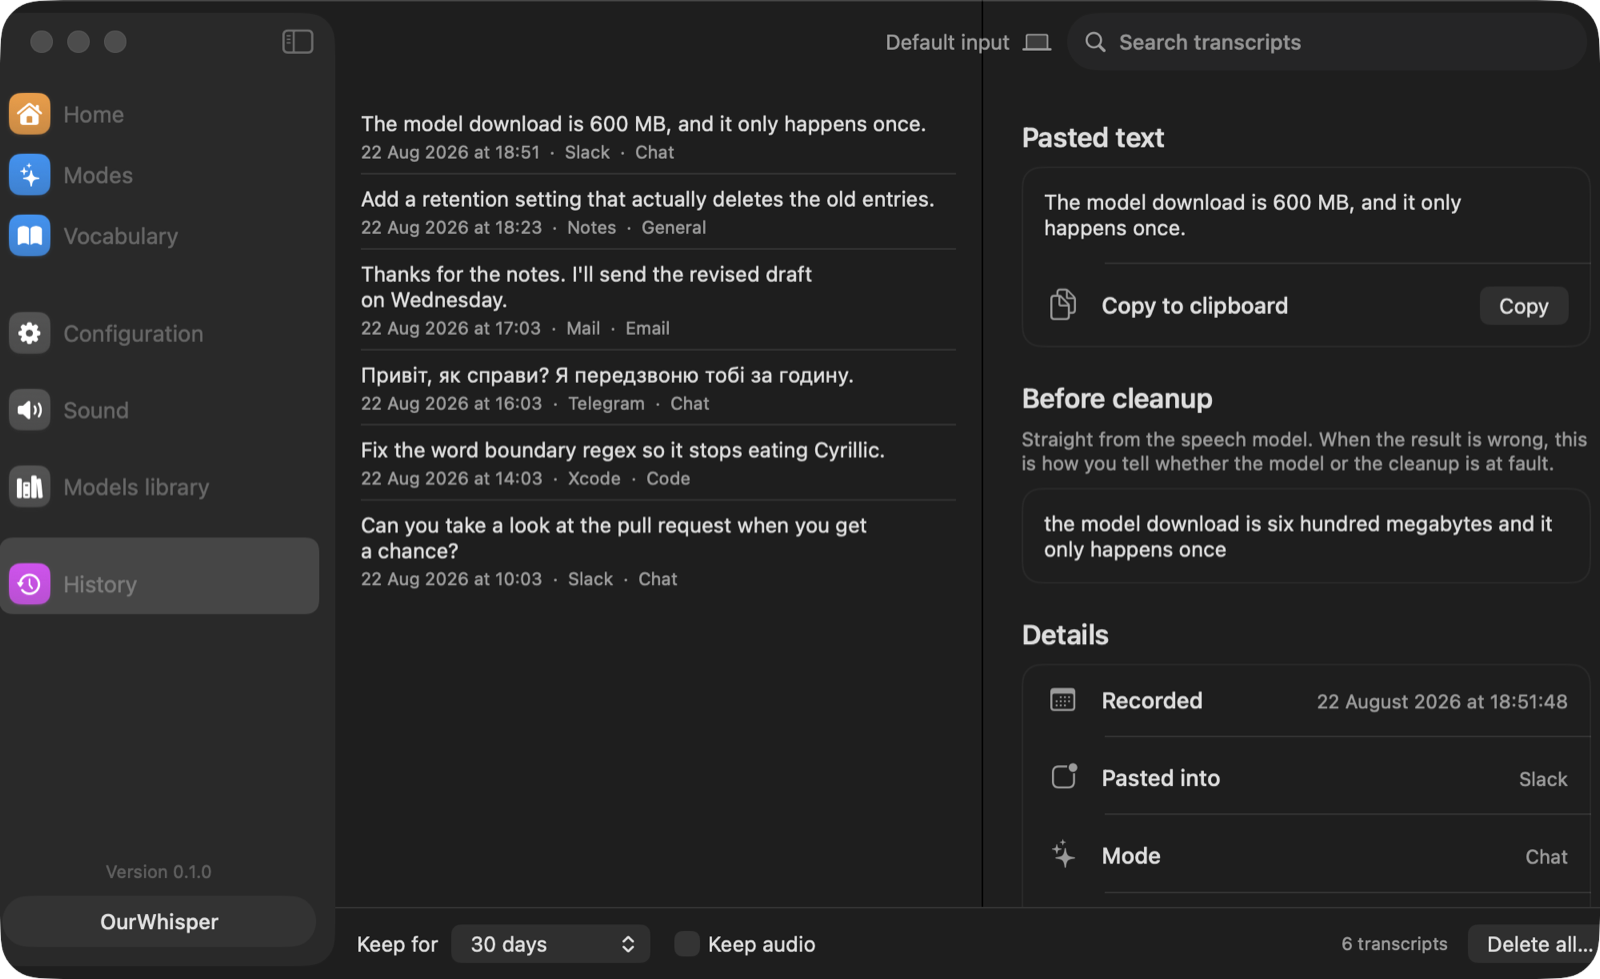
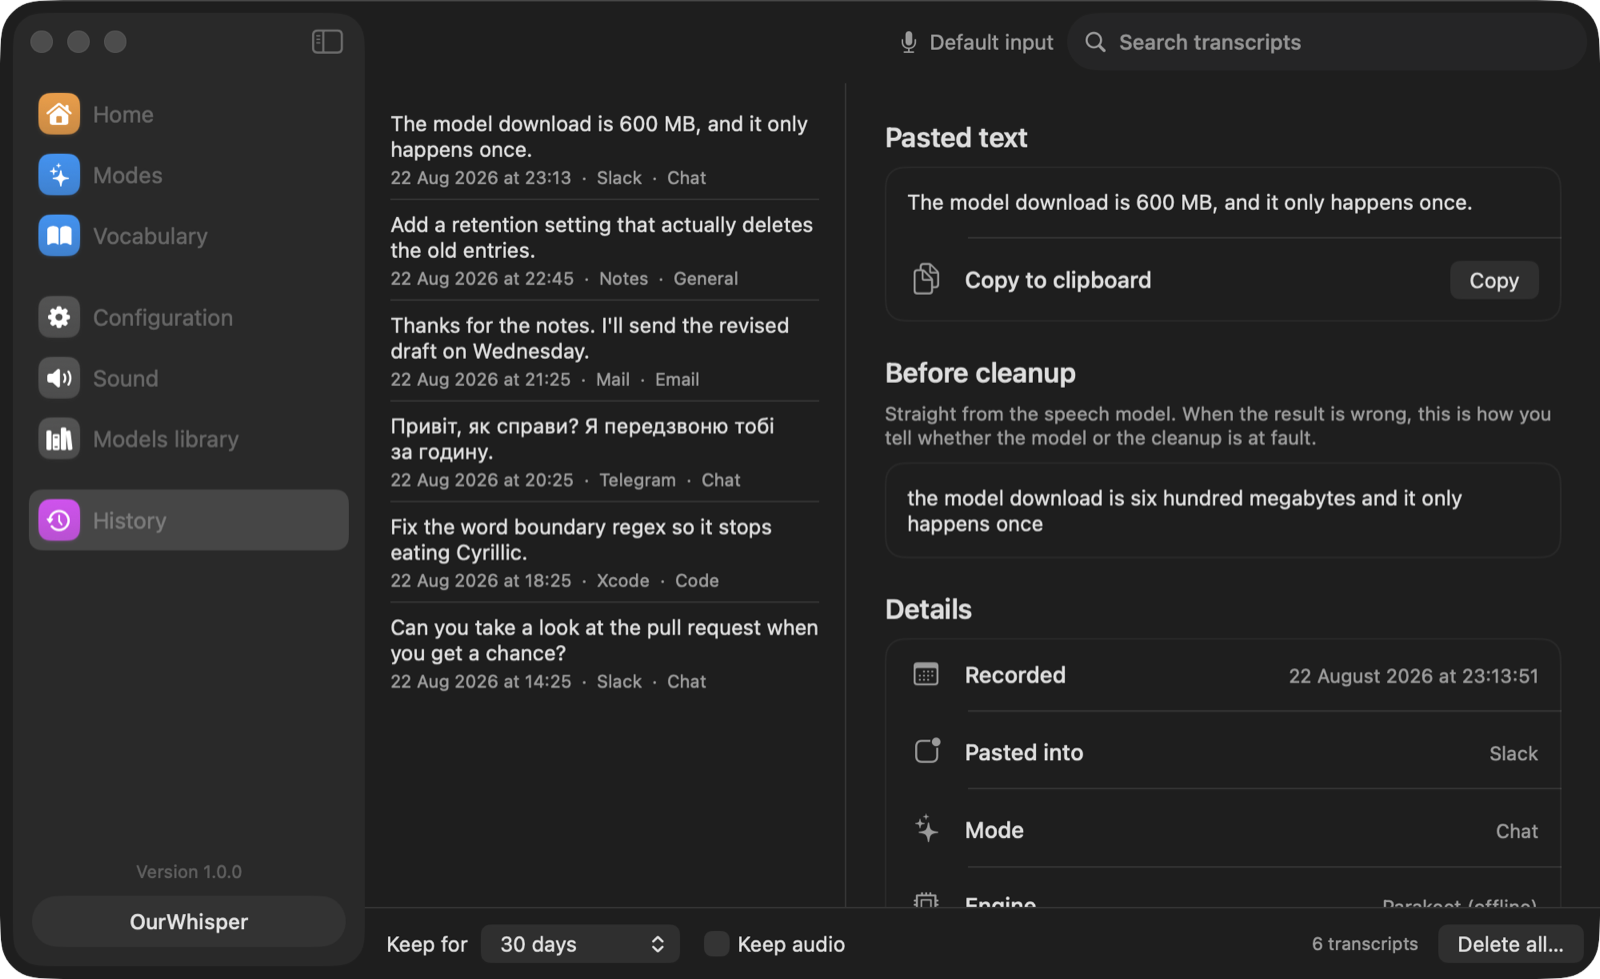
Hold the layout together at the window's minimum width
Five things, all of them visible only when the window is small or the
sidebar is hidden — which is exactly where nobody looks.

`SettingsRow` let its text column shrink without a floor, so in a narrow
pane the label lost the negotiation to the control beside it and wrapped
one letter per line: a nine-line "Symbol". It now measures with
`ViewThatFits` and drops the control onto its own line instead. The
window's minimum goes 780 → 880, which is what the widest screen — the
sidebar, the mode list, and an editor — actually needs.

`HistoryView` used an `HSplitView`, which sizes each pane to its
content's ideal width. The transcript detail's ideal width is wider than
a narrow window, so the right-hand column was laid out past the window
edge and cut off: no scroll bar, no reflow, a "Copy" button half off the
screen. Same trap `ModesView` already documents, same fix — a plain
`HStack` with an explicit list width.

Padding a `Section` inside a `List` does not put space above the group,
it puts space above every row in it. The sidebar's four lower rows were
10pt taller than the three above them, selection highlights included.
The gap between groups is the section break itself; there was nothing to
add.

The mode and vocabulary footers sat 8pt from the window edge, so with
the sidebar collapsed the window's rounded corner cut through the + and
− buttons.

And the input device in the toolbar was a name in a corner explaining
[…]

diff --git a/Sources/Core/ScreenshotMode.swift b/Sources/Core/ScreenshotMode.swift
@@ -12,6 +12,8 @@ import SwiftUI
 /// the script presses the shutter.
 ///
 ///     OURWHISPER_SCREENSHOT=modes OURWHISPER_SCREENSHOT_THEME=dark <binary>
+///     OURWHISPER_SCREENSHOT=modes OURWHISPER_SCREENSHOT_SIZE=880x560 <binary>
+///     OURWHISPER_SCREENSHOT=modes OURWHISPER_SCREENSHOT_SIDEBAR=collapsed <binary>
 ///     OURWHISPER_SCREENSHOT=pill.listening <binary>
 ///
 /// The data in the picture is seeded below, never the user's: screenshot mode redirects
@@ -38,9 +40,31 @@ enum ScreenshotMode {
     }
 
     /// Fixed, so two runs of the script produce two images that can be diffed. Close to the
-    /// window's own 780×560 minimum on purpose: a taller window only adds empty space below the
-    /// Home screen's three rows, and empty space is what a screenshot has least use for.
-    static let windowSize = NSSize(width: 1000, height: 600)
+    /// window's own minimum on purpose: a taller window only adds empty space below the Home
+    /// screen's three rows, and empty space is what a screenshot has least use for.
+    ///
+    /// `OURWHISPER_SCREENSHOT_SIZE=880x560` overrides it. Layouts break at the small end, and the
+    /// small end is the one nobody looks at — this is how to look at it without dragging a corner.
+    static var windowSize: NSSize {
+        guard let raw = ProcessInfo.processInfo.environment["OURWHISPER_SCREENSHOT_SIZE"] else {
+            return NSSize(width: 1000, height: 600)
+        }
+        let parts = raw.lowercased().split(separator: "x").compactMap { Double($0) }
+        guard parts.count == 2 else { return NSSize(width: 1000, height: 600) }
+        return NSSize(width: parts[0], height: parts[1])
+    }
+
+    /// `OURWHISPER_SCREENSHOT_SIDEBAR=collapsed` hides the sidebar. What the detail pane does with
+    /// the extra width is one thing; what the screens with a list of their own do when they become
+    /// the leftmost thing in the window is another, and it is only visible this way.
+    ///
+    /// Set either way, never left alone: AppKit autosaves whether the sidebar is collapsed under
+    /// the app's own defaults domain, which a debug build shares with the installed one. Someone
+    /// who collapsed the sidebar in the real app would otherwise get README screenshots with no
+    /// sidebar in them.
+    static var sidebarCollapsed: Bool {
+        ProcessInfo.processInfo.environment["OURWHISPER_SCREENSHOT_SIDEBAR"] == "collapsed"
+    }
 
     nonisolated static var isActive: Bool { requestedRawValue != nil }
 
@@ -84,6 +108,11 @@ enum ScreenshotMode {
             return
         }
 
+        // Before the resize: uncollapsing the sidebar widens the window to make room for it, so
+        // doing it afterwards would hand back a window wider than the size asked for.
+        setSidebar(collapsed: sidebarCollapsed, in: window)
+        try? await Task.sleep(for: .milliseconds(300))
+
         // SwiftUI restores the window's last frame from `UserDefaults`, which is shared with
         // whatever size the person running this last dragged the real app to.
         window.setContentSize(windowSize)
@@ -116,6 +145,27 @@ enum ScreenshotMode {
         // Nothing else holds the controller, and releasing it takes the pill off screen before
         // the shutter. Sleeping here is what keeps it alive.
         while true { try? await Task.sleep(for: .seconds(60)) }
+    }
+
+    /// `NavigationSplitView` is an `NSSplitViewController` underneath, reachable as the split
+    /// view's delegate rather than through the window's content view controller. Setting
+    /// `isCollapsed` rather than sending `toggleSidebar:` is what makes the result the same
+    /// whichever state the autosaved defaults arrived in.
+    private static func setSidebar(collapsed: Bool, in window: NSWindow) {
+        guard let split = splitView(in: window.contentView),
+              let controller = split.delegate as? NSSplitViewController,
+              let sidebar = controller.splitViewItems.first
+        else { return }
+        sidebar.isCollapsed = collapsed
+    }
+
+    private static func splitView(in view: NSView?) -> NSSplitView? {
+        guard let view else { return nil }
+        if let split = view as? NSSplitView { return split }
+        for child in view.subviews {
+            if let found = splitView(in: child) { return found }
+        }
+        return nil
     }
 
     /// The main window, once SwiftUI has actually created it. It does not exist at the moment the

diff --git a/Sources/UI/DesignSystem/SettingsRow.swift b/Sources/UI/DesignSystem/SettingsRow.swift
@@ -1,5 +1,11 @@
 import SwiftUI
 
+/// How much room a `SettingsRow` label needs before its control is allowed to sit beside it.
+/// Under this, the row stacks instead. The layout before this had no floor under the text column,
+/// and in a narrow pane — the mode editor at the window's minimum width — "Symbol" came out as one
+/// letter per line.
+private let settingsRowLabelWidth: CGFloat = 150
+
 /// The standard row inside a `Card`: icon, title, explanation, control on the right.
 ///
 /// Every settings screen is built from this. Not for tidiness — for honesty. The layout forces
@@ -13,32 +19,68 @@ struct SettingsRow<Control: View>: View {
     @ViewBuilder var control: Control
 
     var body: some View {
-        HStack(alignment: .firstTextBaseline, spacing: 12) {
-            Image(systemName: symbol)
-                .font(.system(size: 16))
-                .foregroundStyle(tint)
-                .frame(width: 24, alignment: .center)
-
-            VStack(alignment: .leading, spacing: 2) {
-                Text(title).font(.system(size: 14, weight: .medium))
-                if let detail {
-                    Text(detail)
-                        .font(.system(size: 12))
-                        .foregroundStyle(.secondary)
-                        .fixedSize(horizontal: false, vertical: true)
-                }
-            }
-            // The text column yields first. Without this the label's ideal width wins the
-            // negotiation and the control on the right is pushed past the edge of the pane.
-            .frame(maxWidth: .infinity, alignment: .leading)
-            .layoutPriority(-1)
-
-            control
-                .labelsHidden()
-                .controlSize(.regular)
-                .fixedSize(horizontal: true, vertical: false)
+        // `ViewThatFits` measures the first layout at its ideal width, which the frame below
+        // pins to icon + label + control. When the pane is narrower than that, the second layout
+        // wins and the control moves to a line of its own.
+        ViewThatFits(in: .horizontal) {
+            sideBySide
+            stacked
         }
         .padding(14)
+    }
+
+    private var sideBySide: some View {
+        HStack(alignment: .firstTextBaseline, spacing: 12) {
+            icon
+            label
+                .frame(
+                    minWidth: settingsRowLabelWidth,
+                    idealWidth: settingsRowLabelWidth,
+                    maxWidth: .infinity,
+                    alignment: .leading
+                )
+            sizedControl
+        }
+    }
+
+    private var stacked: some View {
+        VStack(alignment: .leading, spacing: 10) {
+            HStack(alignment: .firstTextBaseline, spacing: 12) {
+                icon
+                label
+                Spacer(minLength: 0)
+            }
+            // Indented to the text column, so the control reads as belonging to the row above it
+            // rather than starting a new one.
+            sizedControl
+                .padding(.leading, 36)
+        }
+    }
+
+    private var icon: some View {
+        Image(systemName: symbol)
+            .font(.system(size: 16))
+            .foregroundStyle(tint)
+            .frame(width: 24, alignment: .center)
+    }
+
+    private var label: some View {
+        VStack(alignment: .leading, spacing: 2) {
+            Text(title).font(.system(size: 14, weight: .medium))
+            if let detail {
+                Text(detail)
+                    .font(.system(size: 12))
+                    .foregroundStyle(.secondary)
+                    .fixedSize(horizontal: false, vertical: true)
+            }
+        }
+    }
+
+    private var sizedControl: some View {
+        control
+            .labelsHidden()
+            .controlSize(.regular)
+            .fixedSize(horizontal: true, vertical: false)
     }
 }
 

diff --git a/Sources/UI/Shell/RootView.swift b/Sources/UI/Shell/RootView.swift
@@ -17,35 +17,48 @@ struct RootView: View {
                 .toolbar(removing: .title)
                 .toolbar { inputDeviceToolbar }
         }
-        .frame(minWidth: 780, minHeight: 560)
+        // Wide enough for the widest screen: the sidebar, the mode list beside it, and an editor
+        // with room for a label and its control on one line. At the old 780 the mode editor was
+        // squeezed until its labels broke one letter per line.
+        .frame(minWidth: 880, minHeight: 560)
         .tint(appState.settings.settings.appearance.accent.color)
         .onDisappear { WindowPresenter.resignIfNoWindows() }
     }
 
-    /// The input device sits on the trailing edge, as plain text.
+    /// Which microphone dictation will record from, on the trailing edge of every screen.
     ///
-    /// Two wrinkles. Without a title there is nothing pushing the item right, so it needs an
-    /// explicit spacer. And on macOS 26 every toolbar item gets a glass background by default,
-    /// which reads as a button here — `sharedBackgroundVisibility(.hidden)` turns that off.
+    /// Three wrinkles. Without a title there is nothing pushing the item right, so it needs an
+    /// explicit spacer. On macOS 26 every toolbar item gets a glass background by default, which
+    /// reads as a button here — `sharedBackgroundVisibility(.hidden)` turns that off. And a name
+    /// sitting in a corner explains nothing on its own, so it is a button to the screen that
+    /// changes it, with the sentence in its tooltip.
     @ToolbarContentBuilder
     private var inputDeviceToolbar: some ToolbarContent {
         if #available(macOS 26.0, *) {
             ToolbarSpacer(.flexible)
-            ToolbarItem(placement: .primaryAction) { inputDeviceLabel }
+            ToolbarItem(placement: .primaryAction) { inputDeviceButton }
                 .sharedBackgroundVisibility(.hidden)
         } else {
             ToolbarItem(placement: .principal) { Spacer() }
-            ToolbarItem(placement: .primaryAction) { inputDeviceLabel }
+            ToolbarItem(placement: .primaryAction) { inputDeviceButton }
         }
     }
 
-    private var inputDeviceLabel: some View {
-        HStack(spacing: 6) {
-            Text(appState.inputDeviceName)
-            Image(systemName: "laptopcomputer")
+    private var inputDeviceButton: some View {
+        Button {
+            appState.selectedSection = .sound
+        } label: {
+            HStack(spacing: 6) {
+                Image(systemName: "mic.fill")
+                Text(appState.inputDeviceName)
+                    .lineLimit(1)
+            }
+            .font(.system(size: 13))
+            .foregroundStyle(.secondary)
         }
-        .font(.system(size: 13))
-        .foregroundStyle(.secondary)
+        .buttonStyle(.plain)
+        .pointerStyle(.link)
+        .help("Dictation records from this microphone. Click to change it in Sound.")
     }
 
     @ViewBuilder

diff --git a/Tests/ViewRenderingTests.swift b/Tests/ViewRenderingTests.swift
@@ -172,6 +172,31 @@ struct ViewRenderingTests {
         #expect(width(of: .failure("Could not paste. The text is on your clipboard.")) > listening)
     }
 
+    /// The bug this guards against: the row let its text column shrink without a floor, so in a
+    /// narrow pane the label lost the negotiation to the control beside it and wrapped one letter
+    /// per line — a nine-line "Symbol" in a row that should be two. Measuring the height is how
+    /// you tell, because the shredded layout is a perfectly valid one.
+    @Test("A settings row does not shred its label in a narrow pane")
+    func settingsRowStaysReadableWhenNarrow() {
+        func height(inPaneOf width: CGFloat) -> CGFloat {
+            let row = SettingsRow(symbol: "star", title: "Symbol", detail: "Any SF Symbol name.") {
+                // Stands in for the mode editor's name field, the widest control on any row.
+                Color.clear.frame(width: 200, height: 22)
+            }
+            .frame(width: width)
+
+            let host = NSHostingView(rootView: row)
+            host.sizingOptions = [.intrinsicContentSize]
+            host.layoutSubtreeIfNeeded()
+            return host.fittingSize.height
+        }
+
+        let roomy = height(inPaneOf: 600)
+        let narrow = height(inPaneOf: 300)
+        // Stacking costs one control's height. Shredding cost eight lines of text.
+        #expect(narrow < roomy * 2)
+    }
+
     @Test("The menu bar content builds")
     func rendersMenuBar() {
         let (state, temp) = makeState()

diff --git a/Sources/UI/Shell/SidebarView.swift b/Sources/UI/Shell/SidebarView.swift
@@ -6,7 +6,10 @@ struct SidebarView: View {
     var body: some View {
         VStack(spacing: 0) {
             List(selection: $selection) {
-                ForEach(Array(NavigationSection.groups.enumerated()), id: \.offset) { index, group in
+                // One `Section` per group. The whitespace between groups is the section break
+                // itself: padding a section pads every row inside it instead, which left the four
+                // rows below the first group 10pt taller than the three above them.
+                ForEach(NavigationSection.groups, id: \.self) { group in
                     Section {
                         ForEach(group) { section in
                             // An explicit HStack rather than `Label`. In a sidebar list, `Label`
@@ -24,8 +27,6 @@ struct SidebarView: View {
                         }
                     }
                     .listSectionSeparator(.hidden)
-                    // Groups are separated by whitespace, not a divider, matching the reference.
-                    .padding(.top, index == 0 ? 0 : 10)
                 }
             }
             .listStyle(.sidebar)

diff --git a/Sources/UI/History/HistoryView.swift b/Sources/UI/History/HistoryView.swift
@@ -23,9 +23,15 @@ struct HistoryView: View {
                 )
                 .frame(maxHeight: .infinity)
             } else {
-                HSplitView {
-                    list.frame(minWidth: 260, idealWidth: 320, maxWidth: 420)
-                    detail.frame(minWidth: 320, maxWidth: .infinity, maxHeight: .infinity)
+                // A plain HStack with an explicit width, not an HSplitView — the same trap the
+                // mode list documents. HSplitView sizes each pane to its content's ideal width,
+                // and the transcript detail's ideal width is wider than a narrow window, so the
+                // right-hand column was laid out past the window edge and simply cut off: no
+                // scroll bar, no reflow, a "Copy" button half off the screen.
+                HStack(spacing: 0) {
+                    list.frame(width: 300)
+                    Divider()
+                    detail.frame(maxWidth: .infinity, maxHeight: .infinity)
                 }
             }
 

diff --git a/Sources/UI/Vocabulary/VocabularyView.swift b/Sources/UI/Vocabulary/VocabularyView.swift
@@ -89,7 +89,10 @@ struct VocabularyView: View {
                 .foregroundStyle(.secondary)
         }
         .buttonStyle(.borderless)
-        .padding(8)
+        // Same clearance as the mode list's footer: tight against the window's rounded corner,
+        // the buttons look like they are falling out of it.
+        .padding(.horizontal, 14)
+        .padding(.vertical, 12)
     }
 
     /// Writes each edit straight back to the store. Vocabulary rows are one short field each, so

diff --git a/Sources/UI/Modes/ModesView.swift b/Sources/UI/Modes/ModesView.swift
@@ -65,7 +65,11 @@ struct ModesView: View {
                 Spacer()
             }
             .buttonStyle(.borderless)
-            .padding(8)
+            // Roomier than a plain 8 on purpose. With the sidebar collapsed this list is the
+            // leftmost thing in the window, and the window's rounded corner cuts through anything
+            // sitting tight against it.
+            .padding(.horizontal, 14)
+            .padding(.vertical, 12)
         }
     }
 

diff --git a/CLAUDE.md b/CLAUDE.md
@@ -62,7 +62,9 @@ values (`home`, `modes`, `vocabulary`, `configuration`, `sound`, `modelsLibrary`
 `screenshots.sh` is the third of these. It launches the app with `OURWHISPER_SCREENSHOT=<target>`,
 which seeds demo data, poses one screen and prints its window number for `screencapture` — see
 `ScreenshotMode`. **If you are an agent and want to see what a screen looks like**, this is the
-command, and it is cheaper than the throwaway harness.
+command, and it is cheaper than the throwaway harness. `OURWHISPER_SCREENSHOT_SIZE=880x560` and
+`OURWHISPER_SCREENSHOT_SIDEBAR=collapsed` pose the awkward cases — the window at its minimum, and
+the screens whose own list becomes the leftmost thing in the window.
 
 ## Layout
 
@@ -148,6 +150,22 @@ second `OurWhisper.app` in a different DerivedData directory, and a permission g
 not apply to the other — while System Settings still shows a ticked OurWhisper. This presents as
 "I granted it and the app still says I did not". The Home screen shows the running bundle path and
 warns when other builds exist; check that before suspecting the permission code.
+
+**Padding a `Section` pads every row in it.** In a `List`, `Section { rows }.padding(.top, 10)`
+does not put 10pt above the group — it puts 10pt above each row inside it, so the rows come out
+taller than the rows in the group above and their selection highlights come out taller with them.
+The sidebar shipped that way. The gap between groups is the section break itself; there is nothing
+to add.
+
+**A pane whose content cannot shrink is laid out past the window edge, and then clipped.** Two
+shapes of this. `HSplitView` sizes each pane to its content's ideal width, so a detail pane with a
+wide row overflows the window with no scroll bar and no reflow — `ModesView` and `HistoryView` both
+use a plain `HStack` with an explicit list width for that reason. And a row whose text column has
+no minimum width loses the negotiation entirely: `SettingsRow` used to let its label shrink to
+nothing, which turned "Symbol" into one letter per line in a narrow mode editor. It now measures
+with `ViewThatFits` and drops the control onto its own line instead. The window's `minWidth` is the
+other half of that: it is set to what the widest screen actually needs, and lowering it puts the
+squeeze back.
 
 **A window sized to its content view does not resize when the content does.** The pill's phases
 are different widths — "Cleaning up" is wider than five audio bars — so setting `PillModel.phase`
